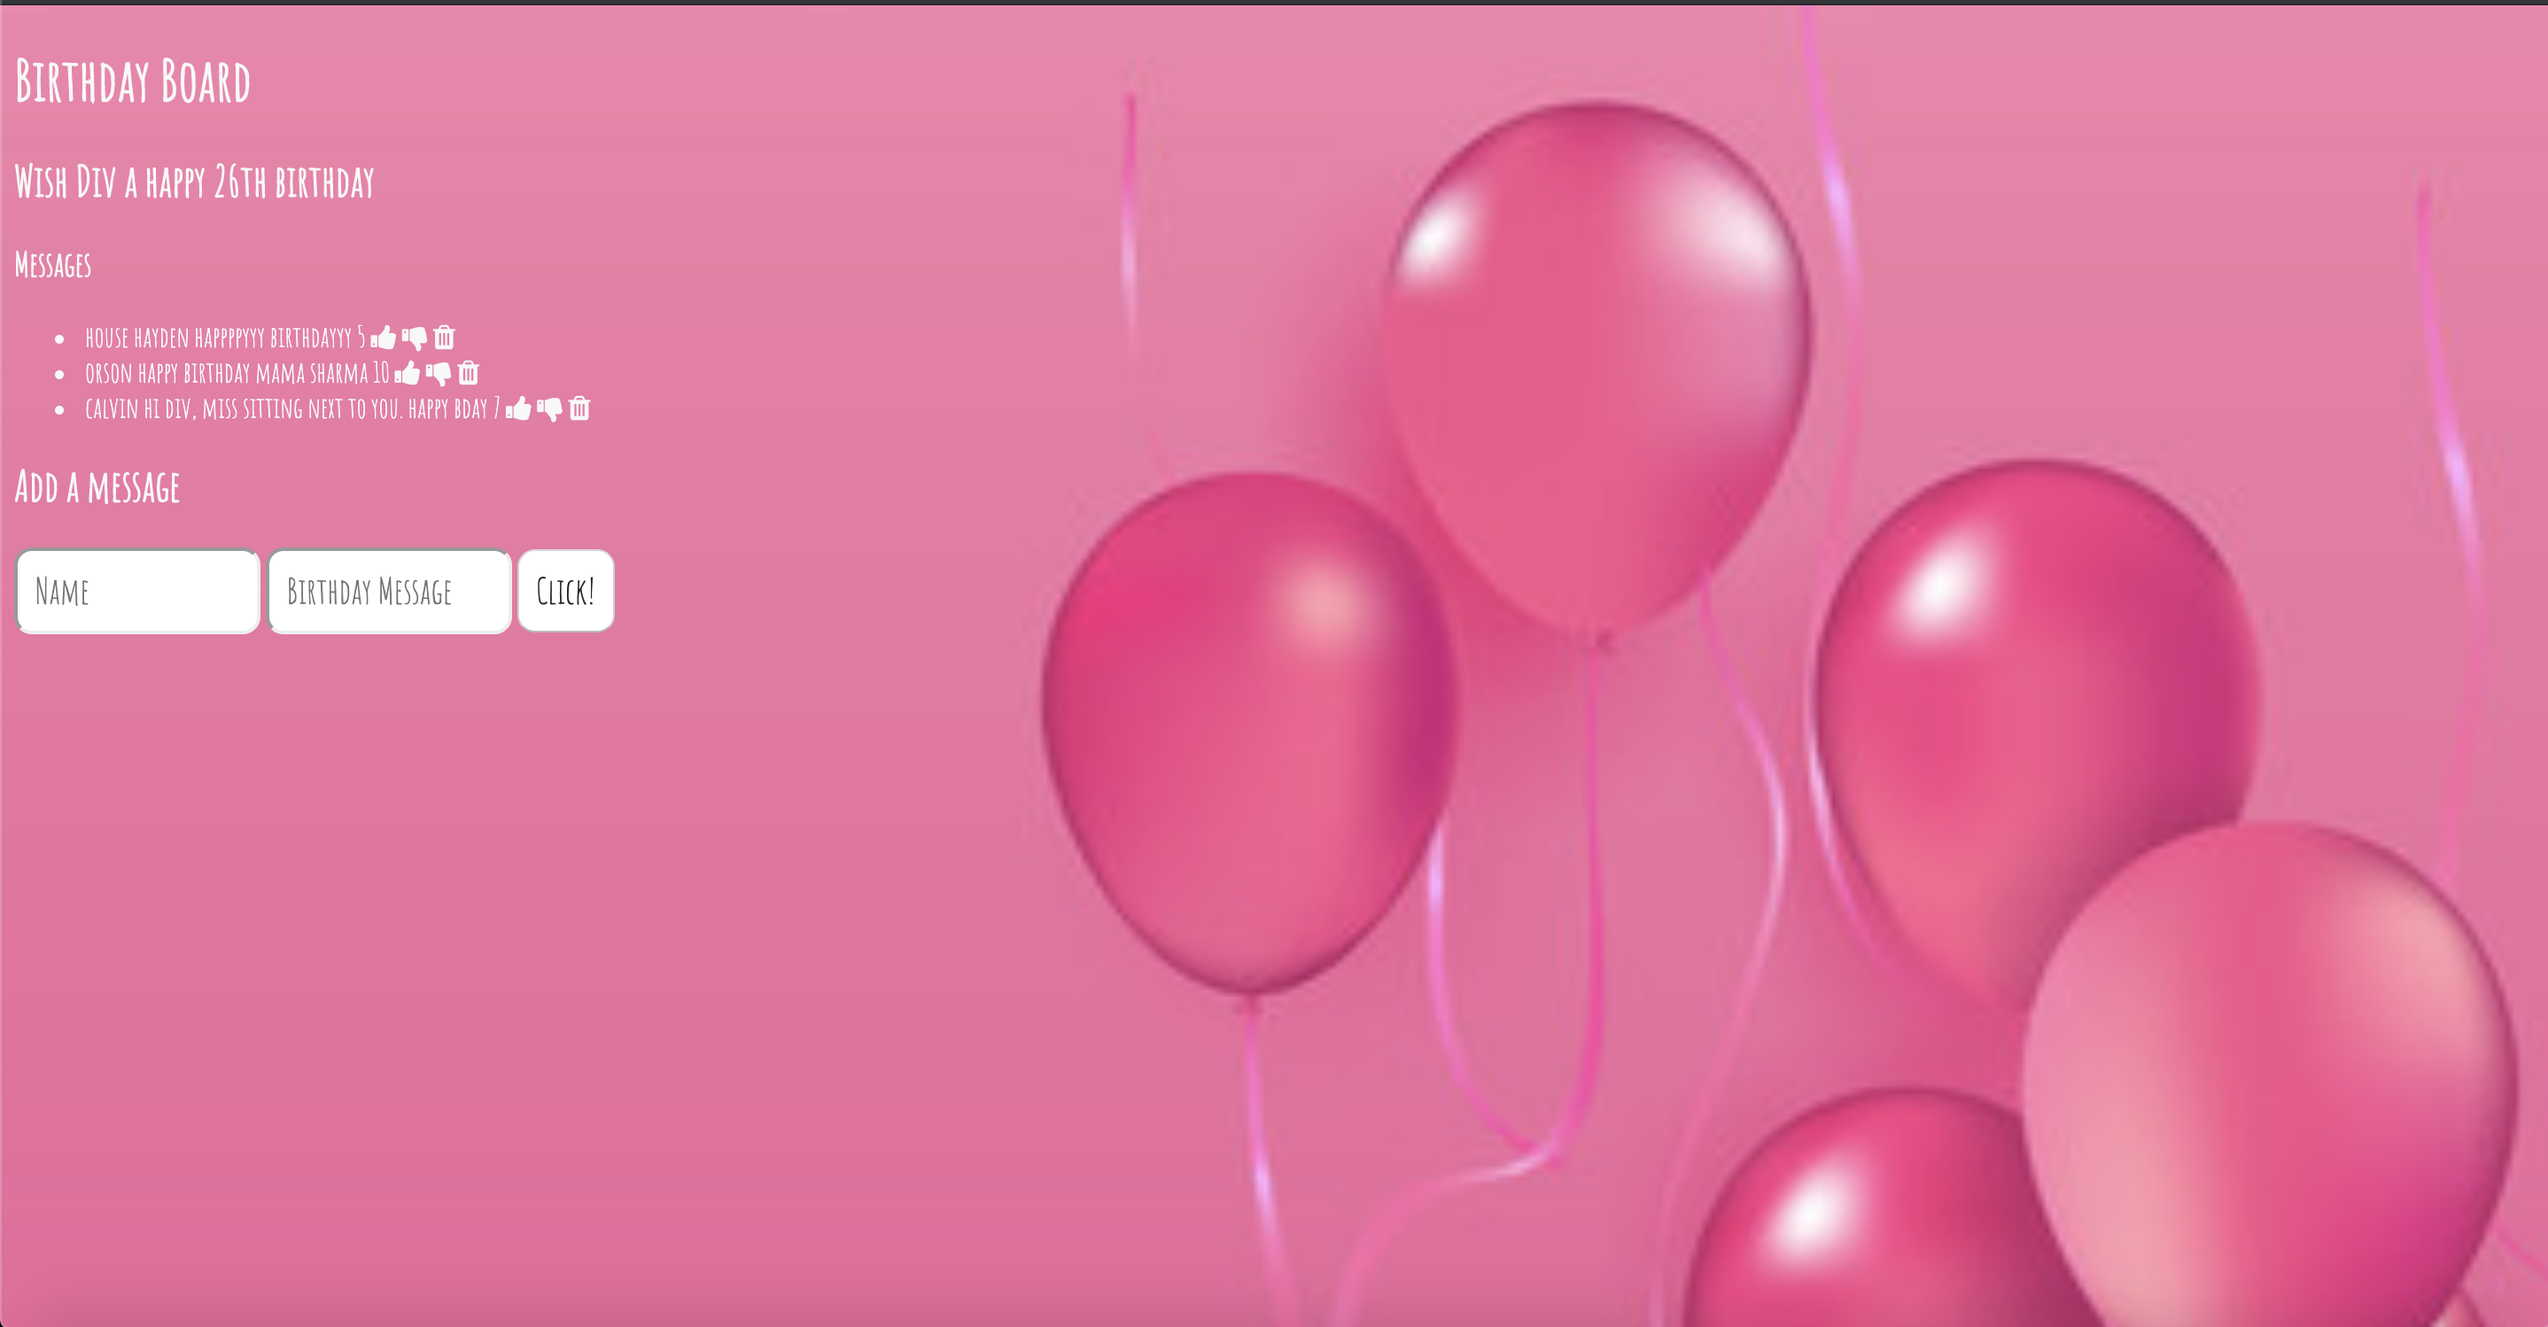
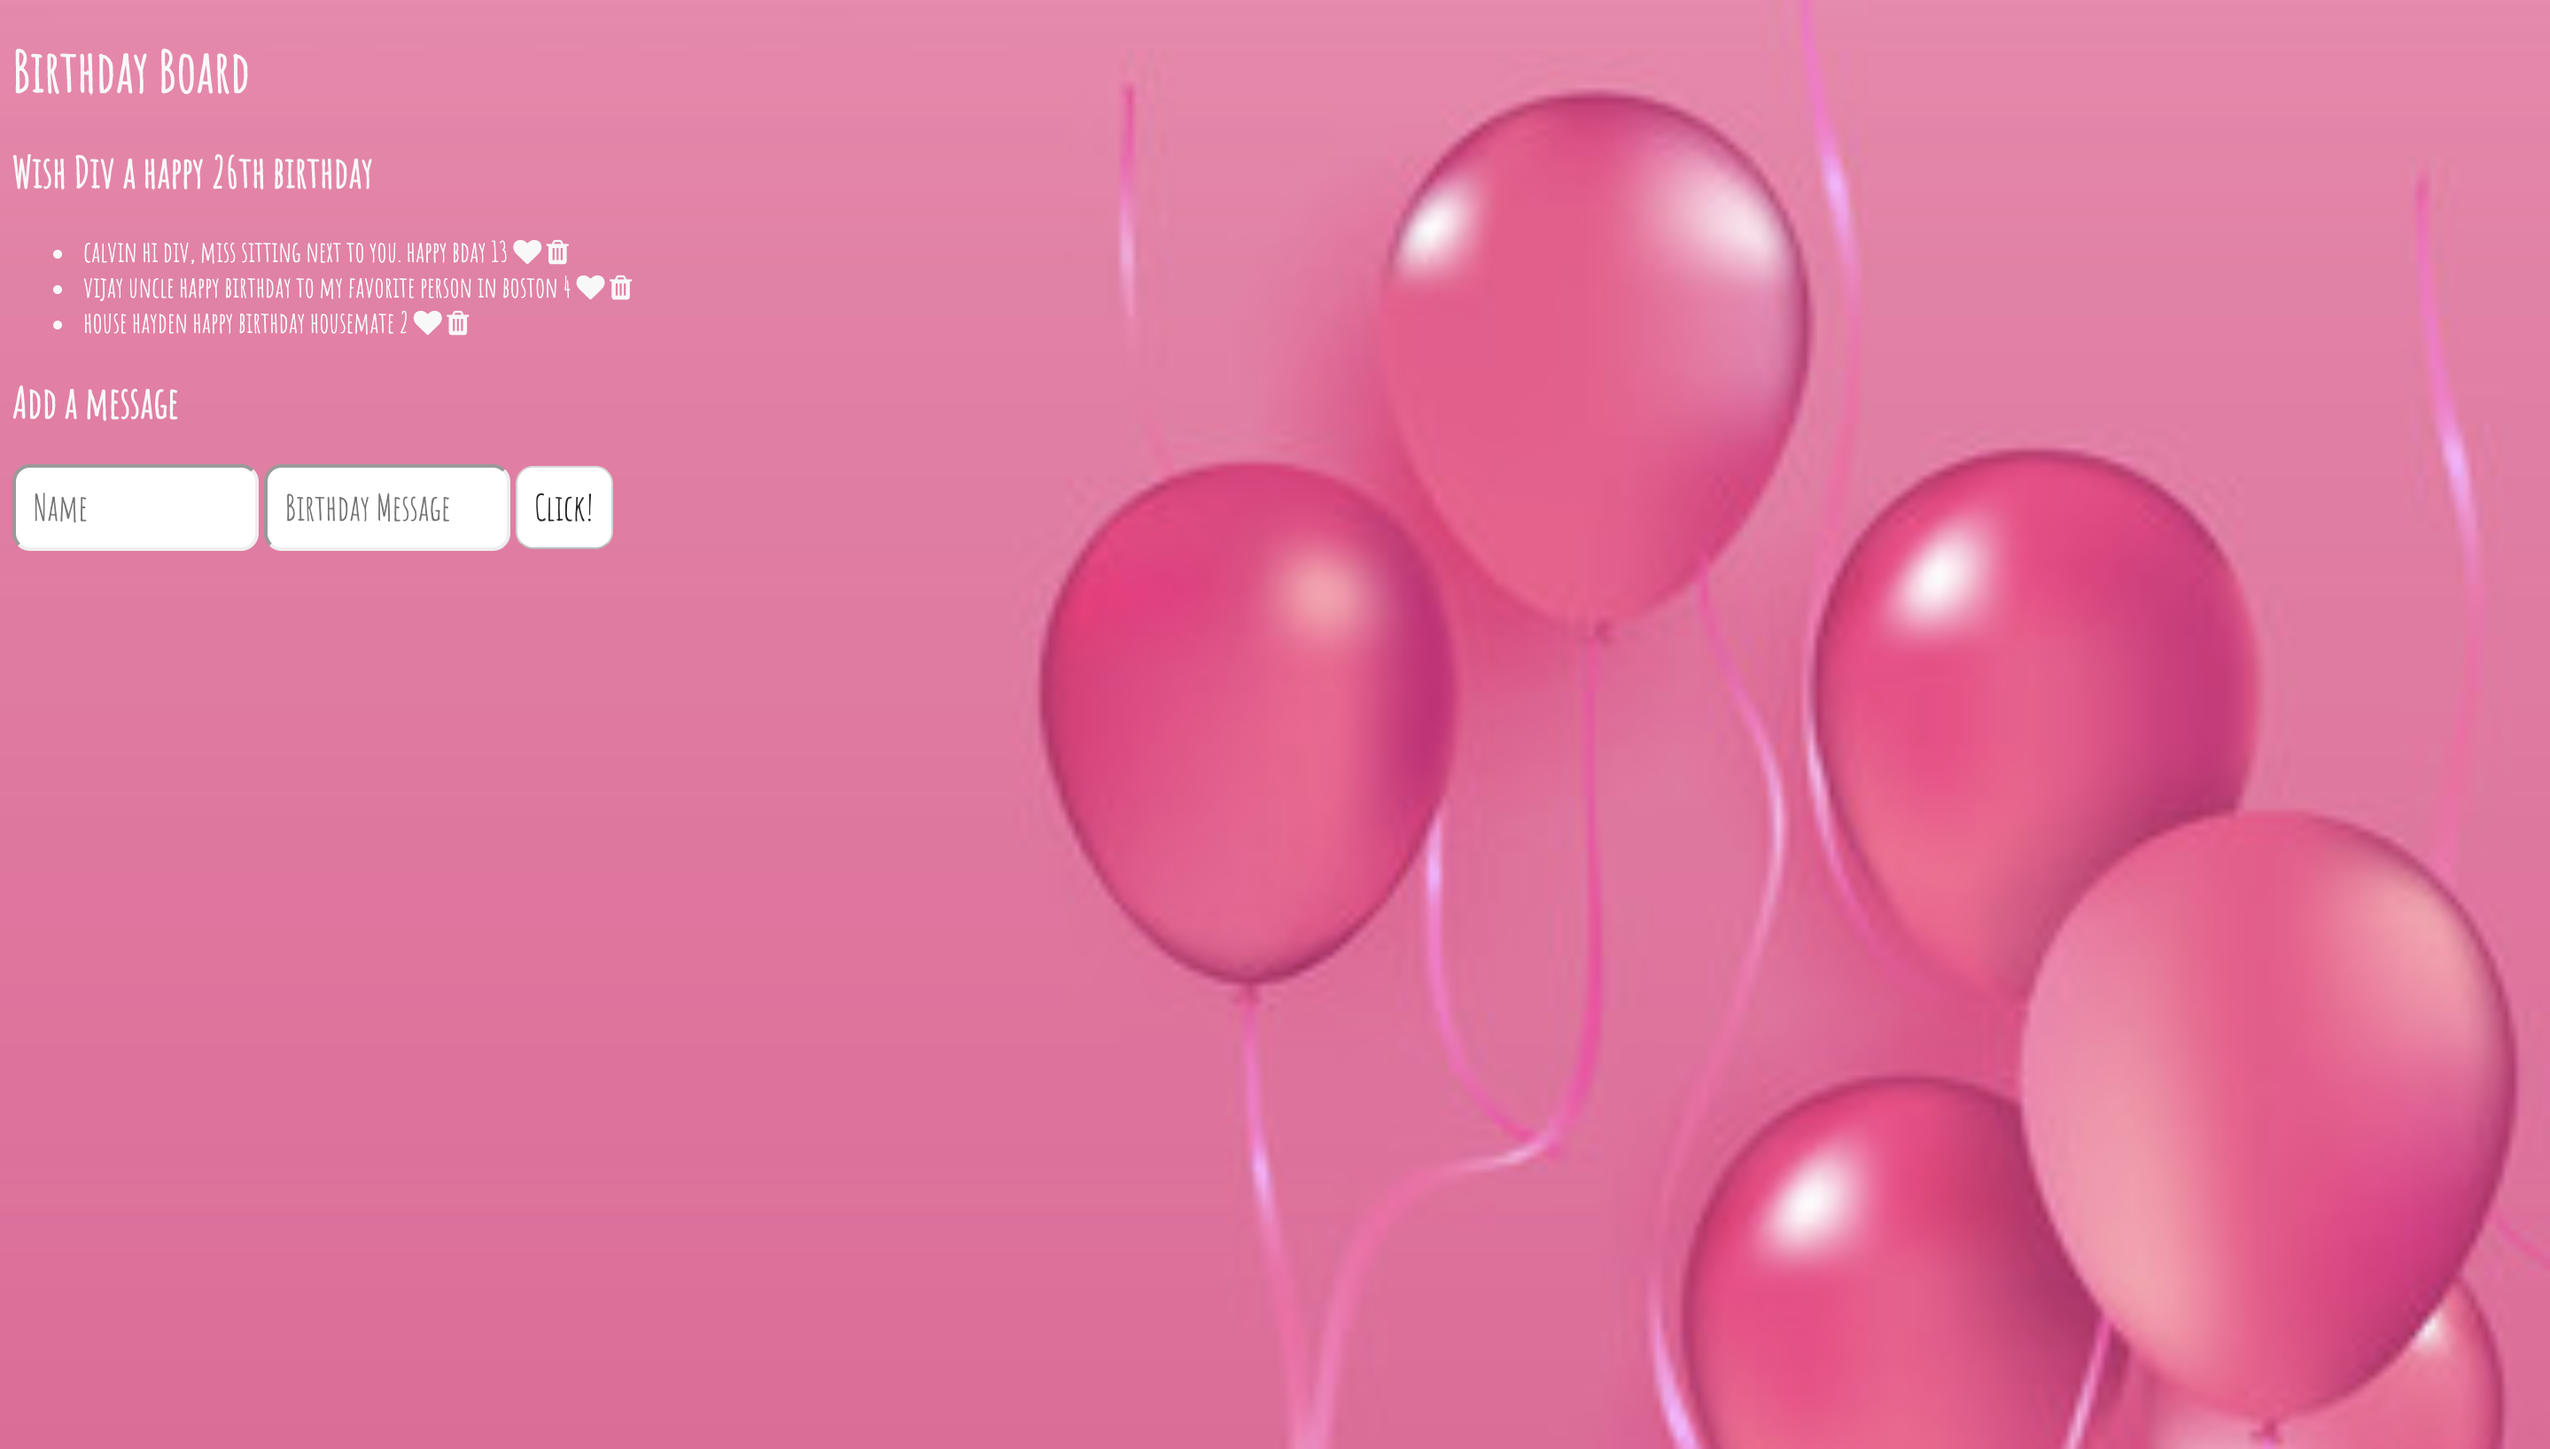
personal express app birthday board

diff --git a/public/main.js b/public/main.js
@@ -1,5 +1,4 @@
-var thumbUp = document.getElementsByClassName("fa-thumbs-up");
-var thumbDown = document.getElementsByClassName("fa-thumbs-down")
+var thumbUp = document.getElementsByClassName("fa-heart");
 var trash = document.getElementsByClassName("fa-trash");
 
 Array.from(thumbUp).forEach(function(element) {
@@ -8,30 +7,6 @@ Array.from(thumbUp).forEach(function(element) {
         const msg = this.parentNode.parentNode.childNodes[3].innerText
         const thumbUp = parseFloat(this.parentNode.parentNode.childNodes[5].innerText)
         fetch('thumbUp', {
-          method: 'put',
-          headers: {'Content-Type': 'application/json'},
-          body: JSON.stringify({
-            'name': name,
-            'msg': msg,
-            'thumbUp':thumbUp
-          })
-        })
-        .then(response => {
-          if (response.ok) return response.json()
-        })
-        .then(data => {
-          console.log(data)
-          window.location.reload(true)
-        })
-      });
-});
-
-Array.from(thumbDown).forEach(function(element) {
-      element.addEventListener('click', function(){
-        const name = this.parentNode.parentNode.childNodes[1].innerText
-        const msg = this.parentNode.parentNode.childNodes[3].innerText
-        const thumbUp = parseFloat(this.parentNode.parentNode.childNodes[5].innerText)
-        fetch('thumbDown', {
           method: 'put',
           headers: {'Content-Type': 'application/json'},
           body: JSON.stringify({
